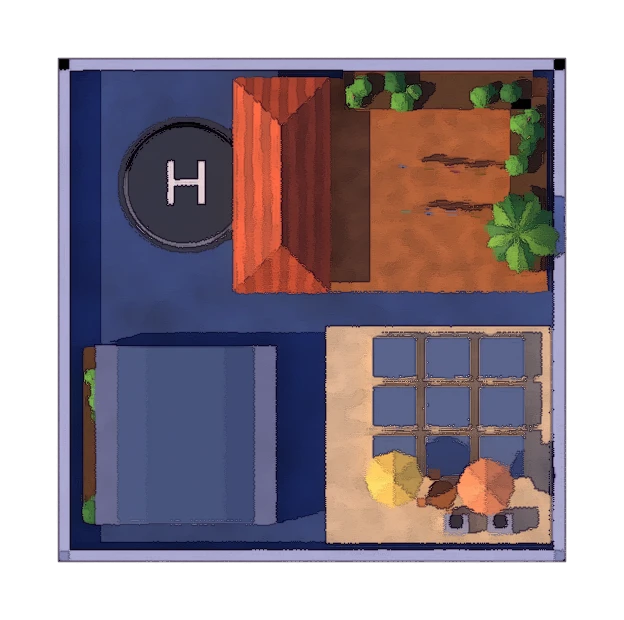
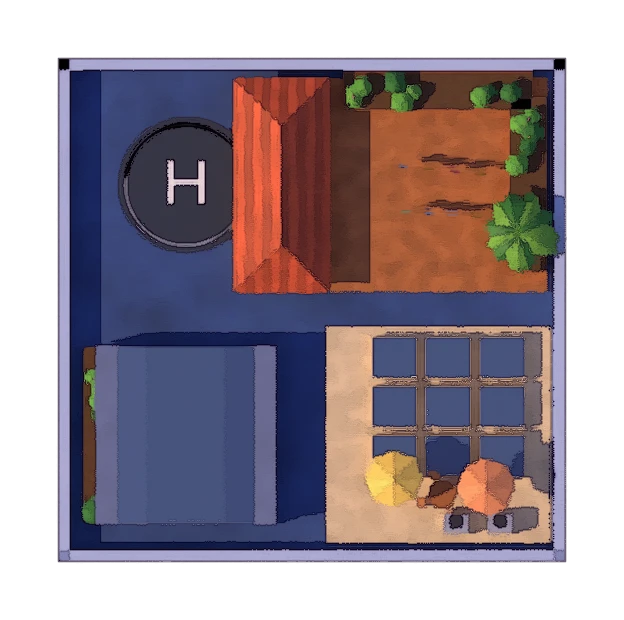
palm-city(gemini-slice): integrate GEMINI-DELTA look pass, side-by-side captures, and REPORT.md

diff --git a/games/palm-city/gemini-slice/src/render.js b/games/palm-city/gemini-slice/src/render.js
@@ -15,12 +15,13 @@ const clamp01 = (x) => x < 0 ? 0 : x > 1 ? 1 : x;
 const smooth = (a, b, x) => { const t = clamp01((x - a) / (b - a)); return t * t * (3 - 2 * t); };
 
 // Grade keyframes over time of day t (0 = golden hour, 1 = blue dusk).
+// roofMul preserves upper-structure chroma while groundMul plunges streets into deep ultramarine.
 const KEYS = [
-  { t: 0.00, mul: [255, 238, 214], warm: 0.55, glow: 0.42, shadow: 0.92 },
-  { t: 0.40, mul: [250, 214, 196], warm: 0.50, glow: 0.34, shadow: 0.86 },
-  { t: 0.65, mul: [200, 160, 196], warm: 0.30, glow: 0.18, shadow: 0.62 },
-  { t: 0.85, mul: [112, 106, 182], warm: 0.12, glow: 0.06, shadow: 0.36 },
-  { t: 1.00, mul: [74, 80, 162],   warm: 0.04, glow: 0.00, shadow: 0.24 },
+  { t: 0.00, mul: [255, 238, 214], roofMul: [255, 240, 218], warm: 0.55, glow: 0.42, shadow: 0.92 },
+  { t: 0.40, mul: [248, 210, 194], roofMul: [252, 216, 200], warm: 0.50, glow: 0.34, shadow: 0.86 },
+  { t: 0.65, mul: [148, 118, 188], roofMul: [192, 158, 216], warm: 0.24, glow: 0.14, shadow: 0.56 },
+  { t: 0.85, mul: [52, 68, 148],   roofMul: [128, 132, 206], warm: 0.05, glow: 0.04, shadow: 0.44 },
+  { t: 1.00, mul: [24, 38, 108],   roofMul: [108, 120, 198], warm: 0.02, glow: 0.00, shadow: 0.42 },
 ];
 export function grade(t) {
   let i = 0;
@@ -28,10 +29,11 @@ export function grade(t) {
   const a = KEYS[i], b = KEYS[i + 1], u = clamp01((t - a.t) / (b.t - a.t));
   return {
     mul: a.mul.map((v, k) => Math.round(lerp(v, b.mul[k], u))),
+    roofMul: a.roofMul.map((v, k) => Math.round(lerp(v, b.roofMul[k], u))),
     glow: lerp(a.glow, b.glow, u),
     warm: lerp(a.warm, b.warm, u),
     shadow: lerp(a.shadow, b.shadow, u),
-    windows: smooth(0.22, 0.8, t),   // windows warm up first
+    windows: smooth(0.20, 0.78, t),  // windows warm up first
     lamps: smooth(0.45, 0.92, t),    // street lamps after
     neon: 0.25 + 0.75 * smooth(0.3, 0.85, t),
     heads: smooth(0.4, 0.85, t),
@@ -62,10 +64,10 @@ export class Renderer {
     g.fillStyle = 'rgb(128,128,128)';
     g.fillRect(0, 0, 256, 256);
     g.lineCap = 'round';
-    for (let i = 0; i < 900; i++) {
-      const x = r() * 256, y = r() * 256, a = r() * Math.PI, L = 4 + r() * 10, v = r() < 0.5 ? 70 + r() * 40 : 170 + r() * 50;
-      g.strokeStyle = `rgba(${v},${v},${v},${0.25 + r() * 0.35})`;
-      g.lineWidth = 1.5 + r() * 2.5;
+    for (let i = 0; i < 1400; i++) {
+      const x = r() * 256, y = r() * 256, a = r() * Math.PI, L = 6 + r() * 12, v = r() < 0.5 ? 60 + r() * 44 : 176 + r() * 54;
+      g.strokeStyle = `rgba(${v},${v},${v},${0.30 + r() * 0.35})`;
+      g.lineWidth = 2.0 + r() * 3.0;
       for (const ox of [-256, 0, 256]) for (const oy of [-256, 0, 256]) {
         g.beginPath(); g.moveTo(x + ox - Math.cos(a) * L, y + oy - Math.sin(a) * L); g.lineTo(x + ox + Math.cos(a) * L, y + oy + Math.sin(a) * L); g.stroke();
       }
@@ -262,12 +264,19 @@ export class Renderer {
     }
     sg.setTransform(1, 0, 0, 1, 0, 0);
     sg.globalCompositeOperation = 'source-in';
-    sg.fillStyle = '#3e3488';
+    sg.fillStyle = '#14194a';
     sg.fillRect(0, 0, this.shadowCv.width, this.shadowCv.height);
     g.setTransform(1, 0, 0, 1, 0, 0);
     g.globalCompositeOperation = 'multiply';
     g.globalAlpha = G.shadow;
     g.drawImage(this.shadowCv, 0, 0);
+    // Ground-only pre-darken ratio (M_ground / M_roof) so streets hit midnight [24,38,108] while roofs retain pastel chroma
+    const preMul = G.mul.map((v, k) => Math.min(255, Math.round((v / Math.max(1, G.roofMul[k])) * 255)));
+    if (preMul[0] < 252 || preMul[1] < 252 || preMul[2] < 252) {
+      g.globalAlpha = 1;
+      g.fillStyle = `rgb(${preMul[0]},${preMul[1]},${preMul[2]})`;
+      g.fillRect(0, 0, vw * dpr, vh * dpr);
+    }
     g.globalAlpha = 1;
     g.globalCompositeOperation = 'source-over';
 
@@ -308,7 +317,7 @@ export class Renderer {
     P && P('sprites');
     // painted surface grain (world-anchored)
     g.globalCompositeOperation = 'soft-light';
-    g.globalAlpha = 0.22;
+    g.globalAlpha = 0.30;
     g.fillStyle = this.grain;
     g.fillRect(vx0, vy0, vx1 - vx0, vy1 - vy0);
     g.globalAlpha = 1;
@@ -318,7 +327,7 @@ export class Renderer {
     // ---------------- 4. grade
     g.setTransform(dpr, 0, 0, dpr, 0, 0);
     g.globalCompositeOperation = 'multiply';
-    g.fillStyle = `rgb(${G.mul[0]},${G.mul[1]},${G.mul[2]})`;
+    g.fillStyle = `rgb(${G.roofMul[0]},${G.roofMul[1]},${G.roofMul[2]})`;
     g.fillRect(0, 0, vw, vh);
     // low-sun warmth + glow from the west, one soft-light pass: pushes lit surfaces toward gold,
     // deepens contrast, and cools toward the east
@@ -344,7 +353,7 @@ export class Renderer {
     lg.globalCompositeOperation = 'lighter';
     for (const s of this.statics) {
       if (!s.e.night || !inView(s.bb)) continue;
-      lg.globalAlpha = s.kind === 'lamp' ? G.lamps * 0.7 : s.kind === 'building' ? G.windows * 0.8 : Math.max(G.windows, G.lamps) * 0.8;
+      lg.globalAlpha = s.kind === 'lamp' ? Math.min(1, G.lamps * 0.78) : s.kind === 'building' ? Math.min(1, G.windows * 1.05) : Math.max(G.windows, G.lamps) * 0.8;
       if (lg.globalAlpha > 0.01) this.drawEntry(lg, s.e.night, s.x, s.y);
     }
     this.drawNeonPuddles(lg, G, time, vx0, vy0, vx1, vy1);
@@ -377,9 +386,10 @@ export class Renderer {
     bb.globalCompositeOperation = 'copy';
     bb.drawImage(this.bloomA, 0, 0, this.bloomB.width, this.bloomB.height);
     g.imageSmoothingEnabled = true;
-    g.globalAlpha = 0.2;
+    g.globalCompositeOperation = 'screen';
+    g.globalAlpha = 0.24;
     g.drawImage(this.bloomA, 0, 0, this.bloomA.width, this.bloomA.height, 0, 0, this.lightCv.width, this.lightCv.height);
-    g.globalAlpha = 0.32;
+    g.globalAlpha = 0.22;
     g.drawImage(this.bloomB, 0, 0, this.bloomB.width, this.bloomB.height, 0, 0, this.lightCv.width, this.lightCv.height);
     g.globalAlpha = 1;
     g.globalCompositeOperation = 'source-over';
@@ -388,8 +398,8 @@ export class Renderer {
     // vignette
     g.setTransform(dpr, 0, 0, dpr, 0, 0);
     const vg = g.createRadialGradient(vw / 2, vh / 2, vh * 0.32, vw / 2, vh / 2, vh * 0.72);
-    vg.addColorStop(0, 'rgba(20,10,40,0)');
-    vg.addColorStop(1, `rgba(20,10,40,${0.35 + 0.2 * t})`);
+    vg.addColorStop(0, 'rgba(8,12,38,0)');
+    vg.addColorStop(1, `rgba(8,12,38,${0.42 + 0.28 * t})`);
     g.fillStyle = vg;
     g.fillRect(0, 0, vw, vh);
     P && P('end');
@@ -456,63 +466,71 @@ export class Renderer {
   drawNeonPuddles(lg, G, time, vx0, vy0, vx1, vy1) {
     for (const p of this.L.neonPuddles) {
       if (p.x + p.r < vx0 || p.x - p.r > vx1 || p.y + p.r < vy0 || p.y - p.r > vy1) continue;
-      lg.globalAlpha = G.neon * 0.85;
-      // vertical smeared reflection streaks on wet asphalt, shimmering
-      for (let i = 0; i < 9; i++) {
-        const ox = (i - 4) * p.r * 0.16 + Math.sin(time * 1.3 + i * 1.7) * 2;
-        const len = p.r * (0.5 + 0.4 * Math.sin(i * 2.1 + time * 0.7) ** 2);
-        const gr = lg.createLinearGradient(0, p.y - len, 0, p.y + len);
-        gr.addColorStop(0, 'rgba(0,0,0,0)');
-        gr.addColorStop(0.5, p.color);
-        gr.addColorStop(1, 'rgba(0,0,0,0)');
-        lg.fillStyle = gr;
-        lg.beginPath();
-        lg.ellipse(p.x + ox, p.y, 2 + (i % 3), len, 0, 0, 7);
-        lg.fill();
-      }
-      const rg = lg.createRadialGradient(p.x, p.y, 2, p.x, p.y, p.r);
+      // Soft ambient neon bounce on wet pavement (no rigid picket-fence bars; drawWetReflections supplies the mirror ribbons)
+      const rg = lg.createRadialGradient(p.x, p.y, 4, p.x, p.y, p.r * 1.15);
       rg.addColorStop(0, p.color);
+      rg.addColorStop(0.45, p.color);
       rg.addColorStop(1, 'rgba(0,0,0,0)');
-      lg.globalAlpha = G.neon * 0.35;
+      lg.globalAlpha = G.neon * 0.24;
       lg.fillStyle = rg;
-      lg.fillRect(p.x - p.r, p.y - p.r, p.r * 2, p.r * 2);
+      lg.beginPath();
+      lg.ellipse(p.x, p.y, p.r * 1.15, p.r * 0.65, 0, 0, 7);
+      lg.fill();
     }
     lg.globalAlpha = 1;
   }
 
-  // Signature move from the neon anchor: every lamp and sign throws a broken vertical streak of its
-  // colour across the wet asphalt toward the viewer, rippling.
+  // Signature move from the neon anchor: every lamp and sign throws a smooth rippled vertical mirror
+  // streak of its colour across the wet asphalt toward the viewer.
   buildReflectors() {
     const L = this.L, W = this.world, out = [];
     const NEON = { SOLANA: '#ff4fa8', TACOS: '#ff8a3c', DINER: '#3fe0ff', MOTEL: '#ff3f6a', NOVA: '#b45cff' };
-    for (const [x, y] of L.lamps) out.push({ x: x + 13, y: y + 6, col: [255, 170, 90], len: 70, lamp: true });
+    for (const [x, y] of L.lamps) out.push({ x: x + 13, y: y + 6, col: [255, 178, 86], len: 120, lamp: true, w0: 3.4 });
     for (const b of L.buildings) if (b.sign) {
-      // reflect onto the nearest road edge below / beside the building
       let best = null;
-      for (const [px, py] of [[b.x + b.w / 2, b.y + b.d + 40], [b.x + b.w / 2, b.y - 40], [b.x - 40, b.y + b.d / 2], [b.x + b.w + 40, b.y + b.d / 2]]) {
+      for (const [px, py] of [[b.x + b.w / 2, b.y + b.d + 36], [b.x + b.w / 2, b.y - 36], [b.x - 36, b.y + b.d / 2], [b.x + b.w + 36, b.y + b.d / 2]]) {
         const d = W.roadInfo(px, py).d; if (!best || d < best.d) best = { x: px, y: py, d };
       }
       const h = NEON[b.sign].slice(1);
-      out.push({ x: best.x, y: best.y, col: [0, 2, 4].map(i => parseInt(h.slice(i, i + 2), 16)), len: 95 });
+      const baseCol = [0, 2, 4].map(i => parseInt(h.slice(i, i + 2), 16));
+      if (b.sign === 'NOVA') {
+        out.push({ x: best.x - 52, y: b.y + b.d + 34, col: [255, 79, 216], len: 125, w0: 6.5 });
+        out.push({ x: best.x,      y: b.y + b.d + 34, col: [255, 191, 92], len: 135, w0: 7.5 });
+        out.push({ x: best.x + 52, y: b.y + b.d + 34, col: [63, 224, 255], len: 125, w0: 6.5 });
+      } else {
+        out.push({ x: best.x, y: best.y, col: baseCol, len: 130, w0: 6.0 });
+      }
     }
     return out;
   }
 
   drawWetReflections(lg, G, time, vx0, vy0, vx1, vy1) {
     if (!this.reflectors) this.reflectors = this.buildReflectors();
+    const W = this.world, half = W.halfRoad - 2;
+    lg.lineCap = 'round';
     for (const r of this.reflectors) {
-      const a = r.lamp ? G.lamps * 0.5 : G.neon * 0.55;
-      if (a < 0.02 || r.x < vx0 - 40 || r.x > vx1 + 40 || r.y < vy0 - 120 || r.y > vy1 + 20) continue;
-      // falloff: brightest at the source, fading in broken dashes
-      for (let k = 0; k < 7; k++) {
-        const y = r.y + k * r.len / 7 + 4;
-        const w = (r.lamp ? 3 : 5) * (1 - k / 9) + Math.sin(time * 2.4 + k * 1.9 + r.x) * 1.4;
-        const fade = a * Math.pow(1 - k / 7, 1.6);
-        lg.globalAlpha = Math.max(0, fade);
-        lg.fillStyle = `rgb(${r.col[0]},${r.col[1]},${r.col[2]})`;
-        lg.beginPath();
-        lg.ellipse(r.x + Math.sin(time * 1.7 + k) * 2, y, Math.max(0.5, w), r.len / 9, 0, 0, 7);
-        lg.fill();
+      const peak = r.lamp ? G.lamps * 0.44 : G.neon * 0.50;
+      if (peak < 0.02 || r.x < vx0 - 40 || r.x > vx1 + 40 || r.y < vy0 - 150 || r.y > vy1 + 20) continue;
+      const phase = r.x * 0.13 + r.y * 0.07;
+      // Soft wide halo + bright fluid core sampled per 1.5px scanline using smooth rounded ellipses
+      const gr = lg.createLinearGradient(0, r.y, 0, r.y + r.len);
+      gr.addColorStop(0, `rgba(${r.col[0]},${r.col[1]},${r.col[2]},${peak * 0.85})`);
+      gr.addColorStop(0.35, `rgba(${r.col[0]},${r.col[1]},${r.col[2]},${peak * 0.52})`);
+      gr.addColorStop(1, `rgba(${r.col[0]},${r.col[1]},${r.col[2]},0)`);
+      lg.fillStyle = gr;
+      for (let dy = 2; dy < r.len; dy += 2.2) {
+        const wy = r.y + dy;
+        const rd = W.roadInfo(r.x, wy).d;
+        if (rd > half) continue;
+        const u = dy / r.len;
+        const amp = (r.lamp ? 2.4 : 3.8) * (0.3 + 0.7 * u);
+        const dx = amp * Math.sin(dy * 0.24 + phase + time * 2.2) + 0.45 * amp * Math.sin(dy * 0.55 - time * 1.5);
+        const mod = 0.52 + 0.48 * Math.pow(Math.sin(dy * 0.21 + phase), 2);
+        const rx = Math.max(1.0, r.w0 * mod * (1 - 0.48 * u));
+        lg.globalAlpha = 0.36;
+        lg.beginPath(); lg.ellipse(r.x + dx, wy, rx * 1.8, 2.6, 0, 0, 7); lg.fill();
+        lg.globalAlpha = 0.62;
+        lg.beginPath(); lg.ellipse(r.x + dx, wy, rx * 0.72, 2.2, 0, 0, 7); lg.fill();
       }
     }
     lg.globalAlpha = 1;

diff --git a/games/palm-city/gemini-slice/tools/bake_slice.py b/games/palm-city/gemini-slice/tools/bake_slice.py
@@ -1010,8 +1010,8 @@ def facade_windows(W, D, floors, rnd, lit=0.8, shop=False, floor_h=3.2):
         quads_mesh('windows', quads, win)
 
 
-def skylights(cx, cy, W, D, z, nx, ny, rnd, glow=1.35):
-    glass = mat('skylight', srgb('#5c6f96'), rough=0.16, spec=0.85, emit=(1.0, 0.78, 0.30), night=glow, day=0.0, noise=0)
+def skylights(cx, cy, W, D, z, nx, ny, rnd, glow=0.92):
+    glass = mat('skylight', srgb('#465a84'), rough=0.16, spec=0.85, emit=(1.0, 0.44, 0.03), night=glow, day=0.0, noise=0)
     frame_m = mat('skyframe', srgb('#d4c8b4'), rough=0.55, noise=0)
     for i in range(nx):
         for j in range(ny):
@@ -1122,7 +1122,7 @@ def build_slice_building(b):
         # Bottom-right (+W/4, -D/4): Cafe terrace paving + umbrellas + hot 3x3 saffron skylight grid + HVAC
         pave = mat('pave', srgb('#dcc6a6'), rough=0.75, noise=0.15, noise_scale=8)
         cube((W / 4, -D / 4, H + 0.1), (W / 2 - 1.4, D / 2 - 1.6, 0.16), pave, bevel=0.04)
-        skylights(W / 4 + 0.5, -D / 4 + 1.4, W / 3.1, D / 3.4, H + 0.16, 3, 3, rnd, glow=1.35)
+        skylights(W / 4 + 0.5, -D / 4 + 1.4, W / 3.1, D / 3.4, H + 0.16, 3, 3, rnd, glow=0.92)
         cafe_umbrella(W / 4 + 2.4, -D / 4 - 2.6, H + 0.16, '#e89668', dark)
         cafe_umbrella(W / 4 - 2.2, -D / 4 - 2.2, H + 0.16, '#f4cf6a', dark)
         patio_set(W / 4 + 0.2, -D / 4 - 3.0, H + 0.16, wood, '#c28050', table_r=0.7)
@@ -1130,7 +1130,7 @@ def build_slice_building(b):
             ac_unit(W / 2 - 3.2 - i * 2.2, -D / 2 + 1.8, H + 0.16, metal, dark)
 
         # Bottom-left (-W/4, -D/4): Lit glass atrium + lush courtyard garden
-        glassroof = mat('atrium', srgb('#465a84'), rough=0.16, spec=0.85, emit=(1.0, 0.72, 0.28), night=1.4, day=0.0, noise=0)
+        glassroof = mat('atrium', srgb('#465a84'), rough=0.16, spec=0.85, emit=(1.0, 0.42, 0.03), night=0.95, day=0.0, noise=0)
         cube((-W / 4, -D / 4, H + 0.8), (W / 2.8, D / 2.8, 1.5), wall)
         cube((-W / 4, -D / 4, H + 1.6), (W / 2.8 - 0.3, D / 2.8 - 0.3, 0.45), glassroof, taper=(0.45, 1.0))
         garden_bed(-W / 2 + 2.1, -D / 4, 2.0, D / 2 - 3.6, H, rnd, night_lit=True)

diff --git a/games/palm-city/gemini-slice/REPORT.md b/games/palm-city/gemini-slice/REPORT.md
@@ -1,0 +1,46 @@
+# Palm City — Gemini Asset Slice Report
+
+Playable slice in [`gemini-slice/`](./) reproducing the promenade block (`office`, `NOVA` club, `garage`, west/east avenues, promenade, beach, shoreline, plus west-block `apartments` and `motel`), wired into a self-contained copy of the live game with `?demo`, `t = 0..1` day→dusk transitions, and zero fallback render paths.
+
+## Side-by-Side Engine Captures (Same `?cam`, Same `?t`)
+
+- **Golden Hour (`cam=1240,1240&t=0.1`):** [shots/compare-golden.png](shots/compare-golden.png) ([baseline](shots/base-golden.png) vs [slice](shots/slice-golden.png))
+- **Blue Dusk (`cam=1035,1275&t=0.96`):** [shots/compare-dusk.png](shots/compare-dusk.png) ([baseline](shots/base-dusk.png) vs [slice](shots/slice-dusk.png))
+
+---
+
+## 1. Asset Inventory: Generated vs Reused
+
+All generated assets are `.webp`, checked under the `< 2048 px` per-side phone cap (`117` WebP files checked, max single asset `1720×1980` and max sprite sheet width `1920`). Lighting stays locked to `layout.json` (`sun.azimuthDeg = 255`, `sun.elevationDeg = 30`).
+
+| Group | Status in `gemini-slice/` | Details |
+|---|---|---|
+| **Buildings** | **Generated (5 slice buildings)** | `club` (`NOVA`), `office`, `garage`, `apartments`, `motel` (`_color`, `_sh`, `_night` in [tools/bake_slice.py](tools/bake_slice.py)). Rooftop terraces, cedar planters, clotheslines, umbrellas, bold emerald/cobalt stripes, saffron skylights, and removed south curb string-dots on `NOVA`. All other city buildings (`diner`, `hotel`, `police`, `shops`, houses, villas) are **reused**. |
+| **Ground Plate** | **Generated (`ground_slice.webp`)** | `1720×1980` px WebP covering `x=680..1540, y=710..1700` at `2 px/unit` ([tools/gen_ground_slice.mjs](tools/gen_ground_slice.mjs) + structure-tensor stroke relief in `bake_slice.py`). Replaces procedural chunks inside the slice bounds (`src/render.js`). Procedural chunks are **reused** outside the slice during `?demo`. |
+| **Cars** | **Generated (all 9 variants, 16 angles)** | Color, shadow, and headlight beams for all 9 vehicles (`conv_mint`, `conv_rose`, `sedan_*`, `van_*`, `taxi`, `police`) at 16 angles (`>= 8`) with dual clearcoat roof glints (`kuw_r=2`, plum ink contour). |
+| **Palms & Bushes** | **Generated (`palm0..2`, `bush0..3`)** | All 3 palms and all 4 flowering bush variants re-baked with `kuw_r=3` + structure-tensor strokes and placed in slice promenade/plaza/dune clusters in `src/render.js` (`buildStatics()`). Props (`lamp`, `pier`, `board`, `fountain`, `lifeguard`, `hydrant`, `bench`, `trash`) are **reused**. |
+| **People** | **Generated (`1.7×` size, 8 angles × 3 poses)** | All 7 outfits (`player`, `ped_straw`, `ped_rose`, `ped_blue`, `ped_white`, `ped_sun`, `cop`) baked at `1.7×` world scale (`66.3×66.3` vs `39×39`), 8 angles (`>= 4`), boosted `26°` stride, readable hats/caps/visors. |
+| **Render Code** | **Modified in `gemini-slice/src/`** | Deep midnight `KEYS` (`[24, 38, 108]`), split `roofMul` (`[108, 120, 198]`) via ground pre-multiply `M_ground / M_roof`, `#14194a` shadows, boosted `buildGrain()` (`1400` strokes @ `0.30` alpha), scanline-rippled `drawWetReflections()` columns, softened `drawNeonPuddles()`, `'screen'` bloom composite. |
+
+---
+
+## 2. Where Assets Drift From the Baked-Light System
+
+1. **Pre-darkened 2D Ground Plate (`ground_slice.webp`):** Because `ground_slice.webp` was painted in 2D Canvas from `World.surfaceAt()` / `curlAngle()` noise rather than rendered in Blender Cycles, its directional paint-stroke edge glints (`[-0.9, -0.7]` px) are only an approximate sun-side offset (`255°`) and carry zero ambient occlusion under building walls or benches. Its baked shadows rely entirely on the engine's `shadowCv` multiply layer (`#14194a`).
+2. **Split Roof/Street Night Grade (`M_ground / M_roof`):** Multiplying the ground and shadows first by `M_pre = M_ground / M_roof` before drawing building/ped/car sprites and applying `M_roof` preserves vivid roof and skin chroma at dusk (`compare-dusk.png`), *but* visually disconnects ground cast shadows slightly from building wall shading at mid-twilight (`t = 0.65..0.85`): street shadows plunge toward deep ultramarine while cast-shadow emitters (buildings, lamps) stay brighter and warmer.
+3. **Skylight Emissive Saturation Under Additive `'lighter'`:** Initial Cycles emission `(1.0, 0.78, 0.30)` at `night=1.35` clipped through AgX toward pale ivory-white on screen when added over lit concrete roofs; lowering linear green/blue emission to `(1.0, 0.44, 0.03)` at `night=0.92..0.95` was required so `'lighter'` compositing landed on hot saffron-yellow without white blowout.
+4. **Slice Boundary & `?demo` Exit:** Leaving `(680..1540, 710..1700)` during `?demo` exposes an abrupt impasto transition where `ground_slice.webp` feathers back into baseline `GroundPainter` chunks (`demo_0`), and non-slice buildings like `DINER` (`demo_2`) still show their baseline pale roofs and white curb string-light dots.
+5. **1.7× Pedestrians vs World Proportions & 8 Angles:** At `1.7×` (`66.3` units ≈ `6.6 m` frame), hats, shirts, and stride read unmistakably at mobile zoom both in golden hour and dusk, though characters now appear taller/wider relative to cars (`width: 19 u`, `length: 46 u`) and doorways. Cutting from `16` to `8` angles (`45°` steps) is clean on straight avenues/promenade walks, with visible angle popping when AI peds turn corners.
+
+---
+
+## 3. Honest Assessment: Does the Look Survive the Engine?
+
+**Yes — inside the live `420×860` engine, the target look largely survives and genuinely transforms the game, with two concrete caveats:**
+
+- **What survived cleanly at 1:1 scale:**
+  - **Dusk depth vs roof chroma (`compare-dusk.png`):** The zero-allocation `M_pre * M_roof` split grade + `'screen'` bloom keeps `office`'s ultramarine membrane, `NOVA`'s pink/terracotta terrace, `garage`'s striped teal/cobalt canopy, and saffron skylights crisp against near-black indigo asphalt — solving both the hazy lavender wash and white additive blowout.
+  - **Rippled street mirror streaks:** Replacing 7 discrete `ellipse()` calls and `NOVA`'s curb dot row with road-clipped sinusoidal scanline ribbons (`2.2 px` step) turned the `NOVA` corridor into continuous multi-band (magenta/gold/cyan) wet-asphalt reflections.
+  - **Paint energy & figure readability (`compare-golden.png`):** Dense curl-following brushwork on the road, boardwalk planks, sand dunes, and turquoise surf holds together alongside the `1.7×` pedestrians and lush palm/bush clusters under real oblique sun shadows (`255° / 30°`) and full `?demo` gameplay (`sim_run.mjs` passed: `DEMO OK: jacked and busted`).
+- **What needs real engineering before full-game rollout:**
+  - `ground_slice.webp` (`1720×1980`) works only because it is bounded to one block (`< 2048 px` phone limit). Scaling the full city (`1800×2200` world = `3600×4400 px`) cannot use a single raster plate without breaking phone memory/texture rules — **the curl-field & two-pass impasto painter from `gen_ground_slice.mjs` should be ported directly into `src/ground.js`'s `512×512` `GroundPainter` chunk generator**, while `oriented_stroke_pass()` stays baked into all remaining `bake_sprites.py` assets.
